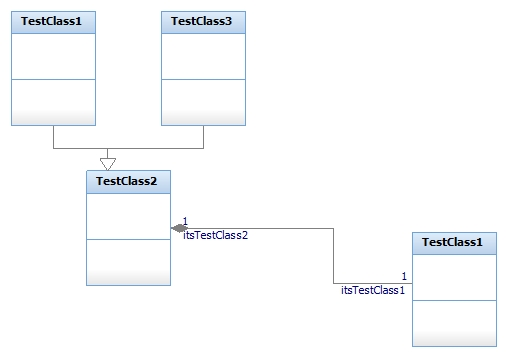
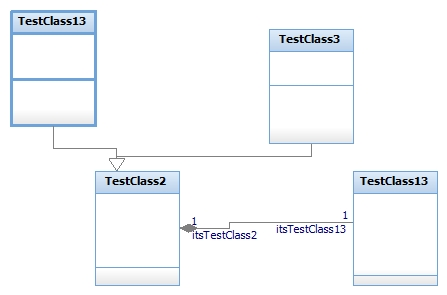
unity demo

diff --git a/tkplugin/output/TestMD.html b/tkplugin/output/TestMD.html
@@ -4,13 +4,13 @@
 <body>
     <img src=" TestMD.jpeg" usemap="#map">
 <map name="map">
-<area coords="53,125,53,148,107,148,107,170" shape="poly" href="Generalization-TestClass2.html">
-<area coords="203,125,203,148,107,148,107,170" shape="poly" href="Generalization-TestClass2.html">
-<area coords="170,227,332,227,332,282,411,282" shape="poly" href="AssociationEnd-itsTestClass1.html">
-<area coords="411,231,495,231,495,345,411,345" shape="poly" href="Class-TestClass1.html">
-<area coords="11,11,95,11,95,125,11,125" shape="poly" href="Class-TestClass1.html">
-<area coords="86,170,170,170,170,284,86,284" shape="poly" href="Class-TestClass2.html">
-<area coords="161,11,245,11,245,125,161,125" shape="poly" href="Class-TestClass3.html">
+<area coords="53,125,53,148,116,148,116,170" shape="poly" href="Generalization-TestClass2.html">
+<area coords="310,143,310,156,116,156,116,170" shape="poly" href="Generalization-TestClass2.html">
+<area coords="179,227,229,227,229,221,352,221" shape="poly" href="AssociationEnd-itsTestClass13.html">
+<area coords="352,170,436,170,436,284,352,284" shape="poly" href="Class-TestClass13.html">
+<area coords="11,11,95,11,95,125,11,125" shape="poly" href="Class-TestClass13.html">
+<area coords="95,170,179,170,179,284,95,284" shape="poly" href="Class-TestClass2.html">
+<area coords="268,29,352,29,352,143,268,143" shape="poly" href="Class-TestClass3.html">
 </map>
 </body>
 

diff --git a/tkplugin/src/com/ibm/rhapsody/tools/UnityDemo.java b/tkplugin/src/com/ibm/rhapsody/tools/UnityDemo.java
@@ -1,0 +1,116 @@
+package com.ibm.rhapsody.tools;
+
+import java.nio.file.Files;
+import java.io.File;
+
+import java.io.FileOutputStream;
+import java.io.IOException;
+import java.io.PrintStream;
+import java.util.List;
+import java.util.function.Consumer;
+
+import org.eclipse.paho.client.mqttv3.MqttClient;
+import org.eclipse.paho.client.mqttv3.MqttConnectOptions;
+import org.eclipse.paho.client.mqttv3.MqttException;
+import org.eclipse.paho.client.mqttv3.MqttMessage;
+import org.eclipse.paho.client.mqttv3.persist.MemoryPersistence;
+
+import com.telelogic.rhapsody.core.IRPApplication;
+import com.telelogic.rhapsody.core.IRPClass;
+import com.telelogic.rhapsody.core.IRPCollection;
+import com.telelogic.rhapsody.core.IRPDiagram;
+import com.telelogic.rhapsody.core.IRPGraphElement;
+import com.telelogic.rhapsody.core.IRPGraphNode;
+import com.telelogic.rhapsody.core.IRPGraphicalProperty;
+import com.telelogic.rhapsody.core.IRPImageMap;
+import com.telelogic.rhapsody.core.IRPModelElement;
+import com.telelogic.rhapsody.core.IRPPackage;
+import com.telelogic.rhapsody.core.IRPProject;
+import com.telelogic.rhapsody.core.RPGraphicalProperty;
+import com.telelogic.rhapsody.core.RhapsodyAppServer;
+
+public class UnityDemo {
+
+	static byte[] saveOmd(IRPDiagram omd, IRPApplication app) throws IOException {
+		String omdName = omd.getDisplayName().toString();
+		System.out.println("Saving " + omdName);
+		IRPCollection imageMaps = app.createNewCollection();
+		String filePath = System.getProperty("user.dir").toString() + "/output/"+ omdName + ".jpeg";
+	    omd.getPictureAs(filePath, "JPEG", 1, imageMaps);
+	    File fi = new File(filePath);
+	    byte[] fileContent = Files.readAllBytes(fi.toPath());
+	    
+	    try (PrintStream out = new PrintStream(new FileOutputStream(System.getProperty("user.dir").toString() + "/output/"+omdName + ".html"))) {
+	    	
+	    	
+	    	out.println("<!DOCTYPE html>\r\n"
+	    			+ "<html>\r\n"
+	    			+ "\r\n"
+	    			+ "<body>\r\n"
+	    			+ "    <img src=\" "+ omdName + ".jpeg\" usemap=\"#map\">");
+	    
+		    out.println("<map name=\"map\">");
+		    for(IRPImageMap map : (List<IRPImageMap>)imageMaps.toList()) {
+		    	out.print("<area coords=\"");
+		    	out.print(map.getPoints().toString());
+		    	out.print("\" shape=\"");
+		    	out.print("poly");
+		    	out.print("\" href=\"");
+		    	out.print(map.getName().replace(' ', '-') + ".html");
+		    	out.print("\">\n");
+		    }
+		    out.println("</map>");
+		    
+		    out.println("</body>\r\n"
+		    		+ "\r\n"
+		    		+ "</html>");
+	    } catch(Exception e) {}
+	    
+	    return fileContent;
+	}
+	
+	public static void main(String[] args) throws IOException, InterruptedException {
+		 String topic        = "M2MQTT_Unity/test";
+        String content      = "Message from MqttPublishSample";
+        int qos             = 2;
+        String broker       = "tcp://localhost:1883";
+        String clientId     = "JavaSample";
+        MemoryPersistence persistence = new MemoryPersistence();
+
+        try {
+   		    MqttClient sampleClient = new MqttClient(broker, clientId, persistence);
+            MqttConnectOptions connOpts = new MqttConnectOptions();
+            connOpts.setCleanSession(true);
+            System.out.println("Connecting to broker: "+broker);
+            sampleClient.connect(connOpts);
+            System.out.println("Connected");
+            
+            // Get image
+    		IRPApplication app = RhapsodyAppServer.getActiveRhapsodyApplication();
+    		IRPProject prj = app.activeProject();
+    		IRPPackage pckg = (IRPPackage)prj.findNestedElement("Testing", "Package");
+    		IRPCollection omds = (IRPCollection)pckg.getObjectModelDiagrams();
+    		IRPDiagram omd = (IRPDiagram)omds.toList().get(0);
+    		
+    		while(true) {
+        		byte[] pictureBytes = saveOmd(omd,app);
+        		
+                System.out.println("Publishing message: "+content);
+                MqttMessage message = new MqttMessage(pictureBytes);
+                message.setQos(qos);
+                sampleClient.publish(topic, message);
+                System.out.println("Message published");
+    			Thread.sleep(1);
+    		}
+
+            
+        } catch(MqttException me) {
+            System.out.println("reason "+me.getReasonCode());
+            System.out.println("msg "+me.getMessage());
+            System.out.println("loc "+me.getLocalizedMessage());
+            System.out.println("cause "+me.getCause());
+            System.out.println("excep "+me);
+            me.printStackTrace();
+        }
+	}
+}
